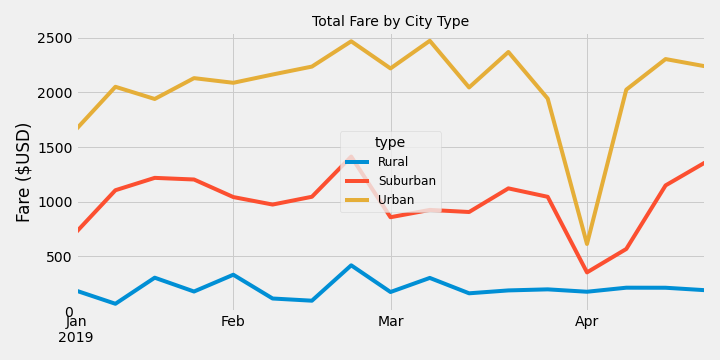
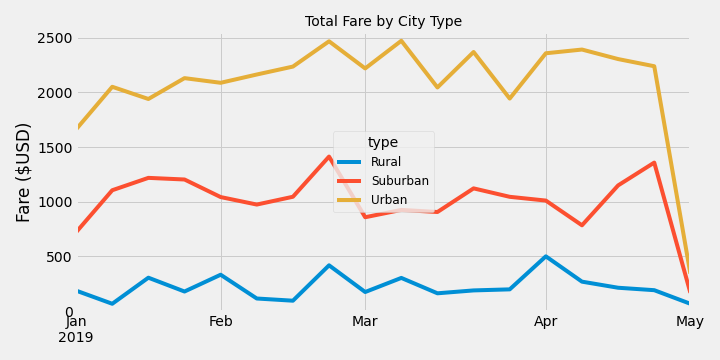
latest

diff --git a/README.md b/README.md
@@ -10,8 +10,8 @@ This analysis looks at drivers, number of rides, number of drivers, average fare
 
 ### How the Analysis was Conducted
 #### Data
-This analysis was conducted based off the data provided in two files. The first file is the [city_data.csv] ("Resources/city_ride.csv") file which shows the city, the driver count for each city and the city type.
-The second file is the [ride_data.csv] ("Resources/ride_data.csv") file which shows the city, date of the ride, the fare for that ride and the ride ID. Both files span the period from 1 Jan 2019 through 5 May 2019. Note the range of analysis is from 1 Jan 2019 through 29 April 2019.
+This analysis was conducted based off the data provided in two files. The first file is the [city_data.csv](Resources/city_data.csv) file which shows the city, the driver count for each city and the city type.
+The second file is the [ride_data.csv](Resources/ride_data.csv) file which shows the city, date of the ride, the fare for that ride and the ride ID. Both files span the period from 1 Jan 2019 through 5 May 2019. Note the range of analysis is from 1 Jan 2019 through 29 April 2019.
 
 #### Steps Conducted
 1. After some plotting practice the files were reviewed to make sure the data did not need to be cleaned, which it did not, both files were merged on city to get a combined view data frame.
@@ -25,7 +25,7 @@ Python was used within the Jupyter development environment. The Pandas, Matplotl
 ### Results
 The results are based on the below summary statististics and graph.
 #### Summary Statistics
-In looking at the summary statistics shown in table 1 ![] ("analysis/PyBer_summary_statistics.png)
+In looking at the summary statistics shown in table 1 ![](analysis/PyBer_summary_statistics.png)
 
 Table 1.
 
@@ -36,11 +36,16 @@ Looking deeper into this, the rural city type had the largest differnce bewteen 
 with the urban city type being the only type to have a higher avergae fare per ride then the average fare per driver. 
 
 #### Total Fare by City Type Graph
-This graph shows the fares in U.S. dollars for each fare  based on city type per week for the time frame of the data. Looking at it one can see a number of items of interest:
-1. The difference in fares follows the sumamry statistices. The total urban fares are the largest. the average is $2,037 dollars per week. The suburban average is $990 per week and the rural average fare for the week is $208.
-2. The fares for all three city types follow the same pattern thorugh most of March. At the begining of April there is a significant dip for both the urban and suburban city types but not the rural city type.
-This is born out in that the standard deviation for the rural fare by week is 88.65. Compare this to the standard devitation for the suburban city type, 256.9 and 422.32 for the urban city type. The rural city type has the lowest standard deviation.
-3. This inconsistency between the rural city type and the suburban and urban city types does not appear in late February. All three city types spiked fairly consistently.
+Looking at Figure 1,
+
+![](./analysis/PyBer_fare_summary.png)
+
+Figure 1
+
+this graph shows the fares in U.S. dollars for each fare  based on city type per week for the time frame of the data. Looking at it one can see a number of items of interest:
+1. The difference in fares follows the sumamry statistices ![](analysis/PyBer_other_statistics.png). The total urban fares are the largest. the average is $2,078 dollars per week. The suburban average is $1002.8 per week and the rural average fare for the week is $221.
+2. The fares for all three city types follow the same pattern thorugh most of March. there is a spike for all three city types in March. After March the variation does not seem correlated until the end of April where all three city types drop.
+Additionally the standard deviation for the rural fare by week is 116. Compare this to the standard devitation for the suburban city type, 275.8 and 480 for the urban city type. The rural city type has the lowest standard deviation.
 
 ### Summary and Recommendations
 Keeping acccess and affordability in mind, the following recommendations and areas of further study are provided.
@@ -48,7 +53,6 @@ Keeping acccess and affordability in mind, the following recommendations and are
  a. conduct further analysis on rural cities to see if this is consistent across all rural cities.
  b. work to increase the number of drivers in the rural area.
 Though the rurual city type is the least profitable, this could bring the average fare per ride down as well as increase rides, and hopefully profit, in the steadiest area of the thre.
-2. Find out what caused the dip at the begining of April that affected the urban and suburban city types but not the rural city type. The hope is that this is controllable, at least to a degree.
-3. Find out what caused the spike in late February. Again, if this is controllable we could promote this.
-4. Further sensitivity analysis to compare driver saturation verses average fare per ride should be conducted to find the maximum quantity of drivers we should target in each of the three city types.
+2. Find out what caused the spike in late February. If this is controllable we could promote this.
+3. Further sensitivity analysis to compare driver saturation verses average fare per ride should be conducted to find the maximum quantity of drivers we should target in each of the three city types.
 
